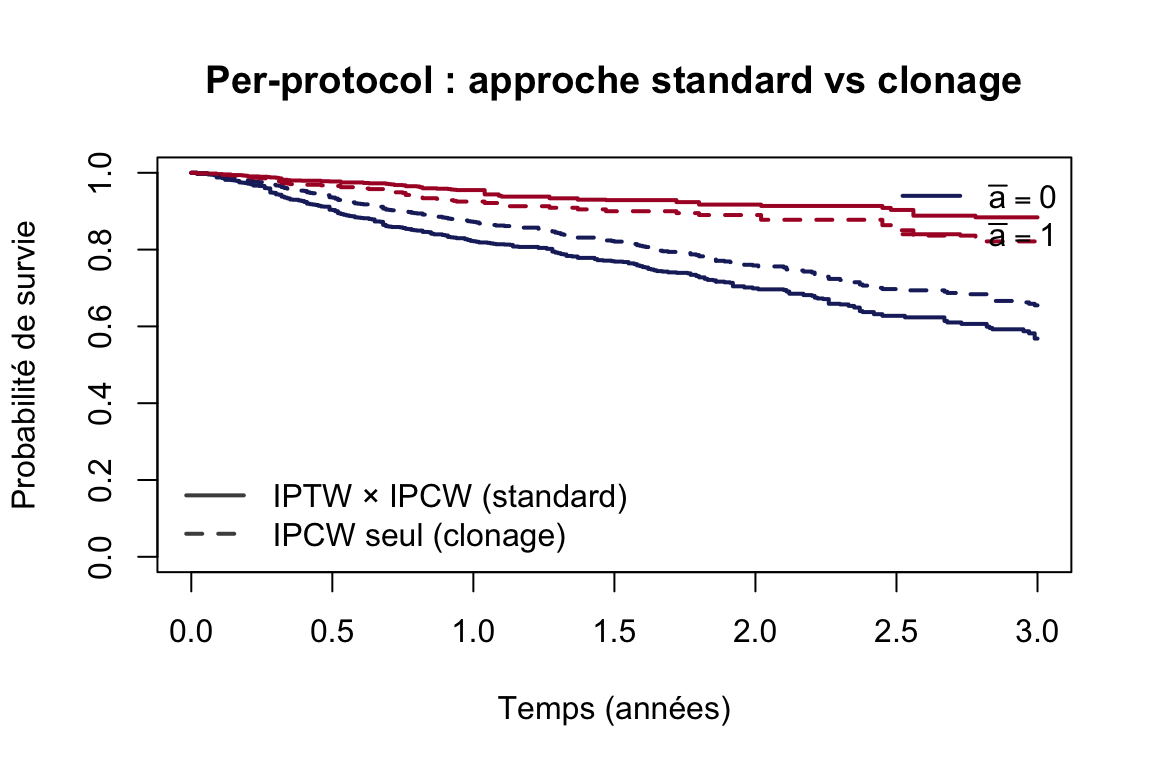
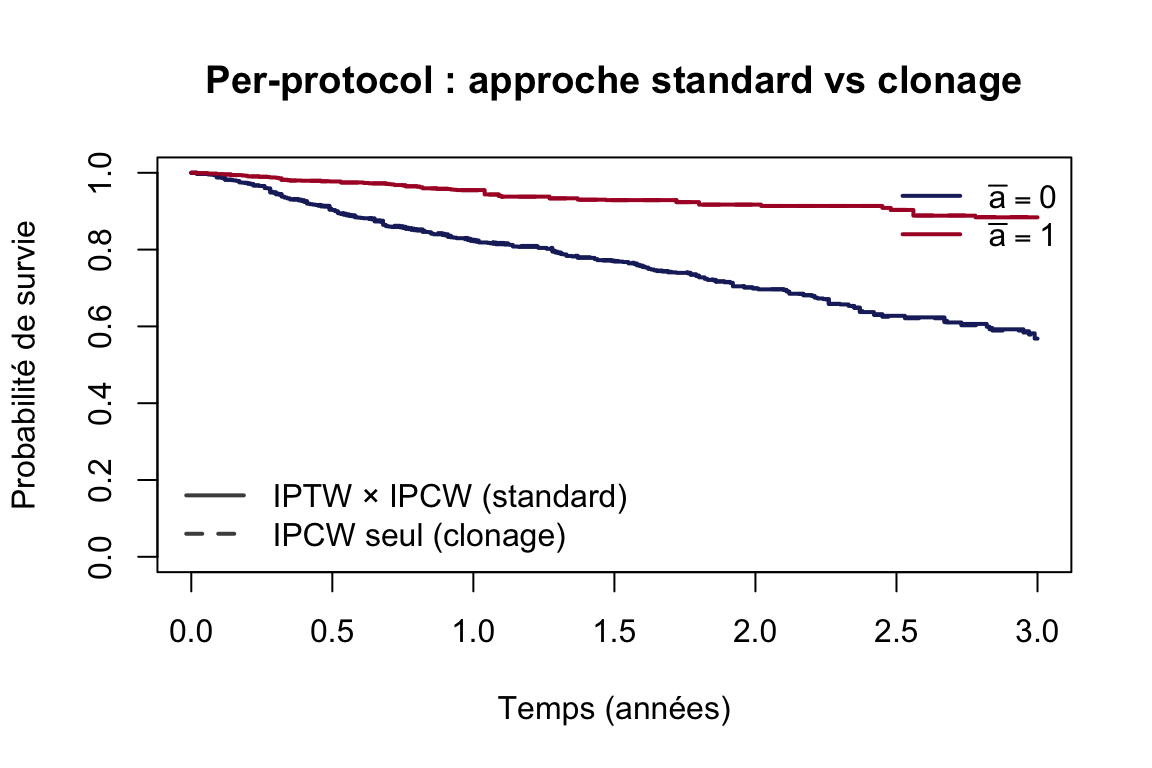
TP Rennes 2026 — mise à jour 22/06/2026 17:36

diff --git a/partie3.html b/partie3.html
@@ -2329,7 +2329,7 @@ Note
 </div>
 </div>
 <div class="callout-body-container callout-body">
-<p>Cette section illustre ce qui a été dit en cours : dans l’approche par <strong>clonage</strong>, l’alignement E = A = T₀ est garanti par construction pour tous les clones, donc l’IPTW est inutile — l’<strong>IPCW seul</strong> suffit. On vérifie ici que les deux approches donnent des poids et des courbes de survie identiques.</p>
+<p>Cette section illustre ce qui a été dit en cours : dans l’approche par <strong>clonage</strong>, l’IPCW seul suffit — sans IPTW. La clé est que le modèle IPCW inclut les observations <strong>au temps 0</strong> où la déviation immédiate est exactement le complément du score de propension. Pour cela, les modèles doivent être <strong>ajustés séparément</strong> dans chaque groupe de clones : à T.start = 0, les effets de X et L sur la déviation sont de <strong>sens opposés</strong> entre les deux stratégies, et un modèle commun annulerait ces effets.</p>
 </div>
 </div>
 <div class="cell">
@@ -2350,17 +2350,25 @@ Note
 <span>  <span class="fu"><a href="https://rdrr.io/r/stats/filter.html">filter</a></span><span class="op">(</span><span class="va">switchA</span> <span class="op">&lt;=</span> <span class="fl">1</span><span class="op">)</span> <span class="op">|&gt;</span></span>
 <span>  <span class="fu">ungroup</span><span class="op">(</span><span class="op">)</span></span>
 <span></span>
-<span><span class="co">## ── Étape 3 : IPCW seul, modèle poolé sur les deux groupes de clones ────────</span></span>
-<span><span class="co">## Pas d'IPTW : dans la base clonée, chaque individu contribue autant</span></span>
-<span><span class="co">## à chaque stratégie → les groupes sont équilibrés par construction</span></span>
-<span><span class="va">wt.clone.d</span> <span class="op">&lt;-</span> <span class="fu"><a href="https://rdrr.io/r/stats/glm.html">glm</a></span><span class="op">(</span><span class="va">switchA</span> <span class="op">~</span> <span class="fu"><a href="https://rdrr.io/r/base/factor.html">as.factor</a></span><span class="op">(</span><span class="va">T.start</span><span class="op">)</span> <span class="op">+</span> <span class="va">X</span> <span class="op">+</span> <span class="va">L</span> <span class="op">+</span> <span class="fu"><a href="https://rdrr.io/r/base/factor.html">as.factor</a></span><span class="op">(</span><span class="va">strategy</span><span class="op">)</span>,</span>
-<span>                  family <span class="op">=</span> <span class="st">"binomial"</span>, data <span class="op">=</span> <span class="va">df.clone</span><span class="op">)</span></span>
-<span><span class="va">wt.clone.n</span> <span class="op">&lt;-</span> <span class="fu"><a href="https://rdrr.io/r/stats/glm.html">glm</a></span><span class="op">(</span><span class="va">switchA</span> <span class="op">~</span> <span class="fu"><a href="https://rdrr.io/r/base/factor.html">as.factor</a></span><span class="op">(</span><span class="va">T.start</span><span class="op">)</span> <span class="op">+</span> <span class="fu"><a href="https://rdrr.io/r/base/factor.html">as.factor</a></span><span class="op">(</span><span class="va">strategy</span><span class="op">)</span>,</span>
-<span>                  family <span class="op">=</span> <span class="st">"binomial"</span>, data <span class="op">=</span> <span class="va">df.clone</span><span class="op">)</span></span>
+<span><span class="co">## ── Étape 3 : IPCW seul, modèles séparés par groupe de clones ───────────────</span></span>
+<span><span class="co">## À T.start = 0, strategy = 1 : déviation = I(A = 0) → P(pas de déviation | X, L) = P(A=1|X,L)</span></span>
+<span><span class="co">## À T.start = 0, strategy = 0 : déviation = I(A = 1) → P(pas de déviation | X, L) = P(A=0|X,L)</span></span>
+<span><span class="co">## Le terme T.start = 0 du modèle par groupe absorbe exactement le poids IPTW.</span></span>
+<span><span class="co">## Les modèles DOIVENT être séparés car les effets de X et L sont opposés.</span></span>
+<span><span class="va">dc1</span> <span class="op">&lt;-</span> <span class="va">df.clone</span><span class="op">[</span><span class="va">df.clone</span><span class="op">$</span><span class="va">strategy</span> <span class="op">==</span> <span class="fl">1</span>, <span class="op">]</span></span>
+<span><span class="va">dc0</span> <span class="op">&lt;-</span> <span class="va">df.clone</span><span class="op">[</span><span class="va">df.clone</span><span class="op">$</span><span class="va">strategy</span> <span class="op">==</span> <span class="fl">0</span>, <span class="op">]</span></span>
 <span></span>
-<span><span class="va">df.clone</span><span class="op">$</span><span class="va">wt.denom</span> <span class="op">&lt;-</span> <span class="fl">1</span> <span class="op">-</span> <span class="fu"><a href="https://rdrr.io/r/stats/predict.html">predict</a></span><span class="op">(</span><span class="va">wt.clone.d</span>, type <span class="op">=</span> <span class="st">"response"</span>, newdata <span class="op">=</span> <span class="va">df.clone</span><span class="op">)</span></span>
-<span><span class="va">df.clone</span><span class="op">$</span><span class="va">wt.num</span>   <span class="op">&lt;-</span> <span class="fl">1</span> <span class="op">-</span> <span class="fu"><a href="https://rdrr.io/r/stats/predict.html">predict</a></span><span class="op">(</span><span class="va">wt.clone.n</span>, type <span class="op">=</span> <span class="st">"response"</span>, newdata <span class="op">=</span> <span class="va">df.clone</span><span class="op">)</span></span>
+<span><span class="va">wd1</span> <span class="op">&lt;-</span> <span class="fu"><a href="https://rdrr.io/r/stats/glm.html">glm</a></span><span class="op">(</span><span class="va">switchA</span> <span class="op">~</span> <span class="fu"><a href="https://rdrr.io/r/base/factor.html">as.factor</a></span><span class="op">(</span><span class="va">T.start</span><span class="op">)</span> <span class="op">+</span> <span class="va">X</span> <span class="op">+</span> <span class="va">L</span>, family <span class="op">=</span> <span class="st">"binomial"</span>, data <span class="op">=</span> <span class="va">dc1</span><span class="op">)</span></span>
+<span><span class="va">wn1</span> <span class="op">&lt;-</span> <span class="fu"><a href="https://rdrr.io/r/stats/glm.html">glm</a></span><span class="op">(</span><span class="va">switchA</span> <span class="op">~</span> <span class="fu"><a href="https://rdrr.io/r/base/factor.html">as.factor</a></span><span class="op">(</span><span class="va">T.start</span><span class="op">)</span>,          family <span class="op">=</span> <span class="st">"binomial"</span>, data <span class="op">=</span> <span class="va">dc1</span><span class="op">)</span></span>
+<span><span class="va">dc1</span><span class="op">$</span><span class="va">wt.denom</span> <span class="op">&lt;-</span> <span class="fl">1</span> <span class="op">-</span> <span class="fu"><a href="https://rdrr.io/r/stats/predict.html">predict</a></span><span class="op">(</span><span class="va">wd1</span>, type <span class="op">=</span> <span class="st">"response"</span>, newdata <span class="op">=</span> <span class="va">dc1</span><span class="op">)</span></span>
+<span><span class="va">dc1</span><span class="op">$</span><span class="va">wt.num</span>   <span class="op">&lt;-</span> <span class="fl">1</span> <span class="op">-</span> <span class="fu"><a href="https://rdrr.io/r/stats/predict.html">predict</a></span><span class="op">(</span><span class="va">wn1</span>, type <span class="op">=</span> <span class="st">"response"</span>, newdata <span class="op">=</span> <span class="va">dc1</span><span class="op">)</span></span>
 <span></span>
+<span><span class="va">wd0</span> <span class="op">&lt;-</span> <span class="fu"><a href="https://rdrr.io/r/stats/glm.html">glm</a></span><span class="op">(</span><span class="va">switchA</span> <span class="op">~</span> <span class="fu"><a href="https://rdrr.io/r/base/factor.html">as.factor</a></span><span class="op">(</span><span class="va">T.start</span><span class="op">)</span> <span class="op">+</span> <span class="va">X</span> <span class="op">+</span> <span class="va">L</span>, family <span class="op">=</span> <span class="st">"binomial"</span>, data <span class="op">=</span> <span class="va">dc0</span><span class="op">)</span></span>
+<span><span class="va">wn0</span> <span class="op">&lt;-</span> <span class="fu"><a href="https://rdrr.io/r/stats/glm.html">glm</a></span><span class="op">(</span><span class="va">switchA</span> <span class="op">~</span> <span class="fu"><a href="https://rdrr.io/r/base/factor.html">as.factor</a></span><span class="op">(</span><span class="va">T.start</span><span class="op">)</span>,          family <span class="op">=</span> <span class="st">"binomial"</span>, data <span class="op">=</span> <span class="va">dc0</span><span class="op">)</span></span>
+<span><span class="va">dc0</span><span class="op">$</span><span class="va">wt.denom</span> <span class="op">&lt;-</span> <span class="fl">1</span> <span class="op">-</span> <span class="fu"><a href="https://rdrr.io/r/stats/predict.html">predict</a></span><span class="op">(</span><span class="va">wd0</span>, type <span class="op">=</span> <span class="st">"response"</span>, newdata <span class="op">=</span> <span class="va">dc0</span><span class="op">)</span></span>
+<span><span class="va">dc0</span><span class="op">$</span><span class="va">wt.num</span>   <span class="op">&lt;-</span> <span class="fl">1</span> <span class="op">-</span> <span class="fu"><a href="https://rdrr.io/r/stats/predict.html">predict</a></span><span class="op">(</span><span class="va">wn0</span>, type <span class="op">=</span> <span class="st">"response"</span>, newdata <span class="op">=</span> <span class="va">dc0</span><span class="op">)</span></span>
+<span></span>
+<span><span class="va">df.clone</span> <span class="op">&lt;-</span> <span class="fu"><a href="https://rdrr.io/r/base/cbind.html">rbind</a></span><span class="op">(</span><span class="va">dc1</span>, <span class="va">dc0</span><span class="op">)</span></span>
 <span><span class="va">df.clone</span> <span class="op">&lt;-</span> <span class="va">df.clone</span><span class="op">[</span><span class="va">df.clone</span><span class="op">$</span><span class="va">switchA</span> <span class="op">==</span> <span class="fl">0</span>, <span class="op">]</span> <span class="op">|&gt;</span></span>
 <span>  <span class="fu">group_by</span><span class="op">(</span><span class="va">id</span>, <span class="va">strategy</span><span class="op">)</span> <span class="op">|&gt;</span></span>
 <span>  <span class="fu">mutate</span><span class="op">(</span>ipcw.s <span class="op">=</span> <span class="fu"><a href="https://rdrr.io/r/base/cumsum.html">cumprod</a></span><span class="op">(</span><span class="va">wt.num</span> <span class="op">/</span> <span class="va">wt.denom</span><span class="op">)</span><span class="op">)</span> <span class="op">|&gt;</span></span>